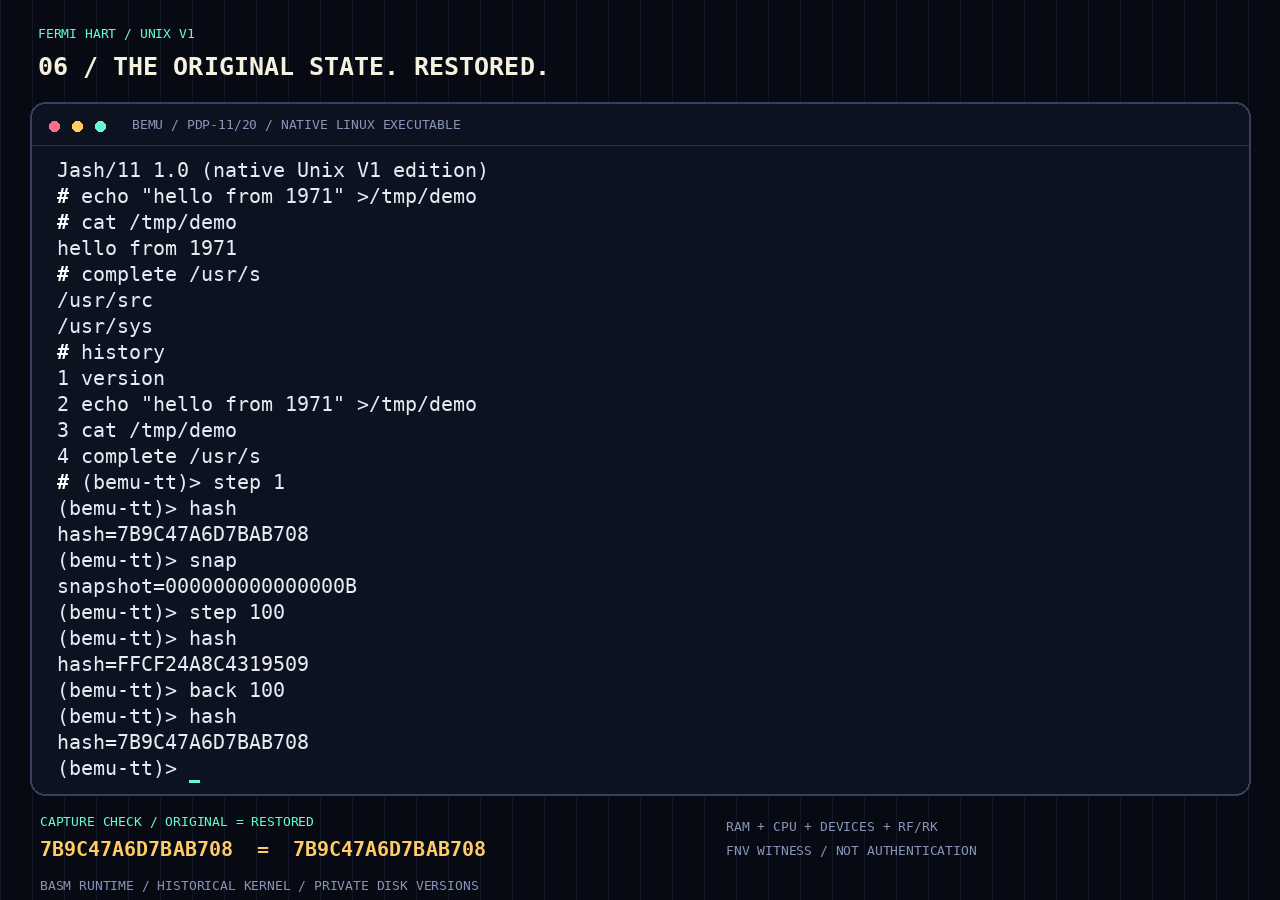
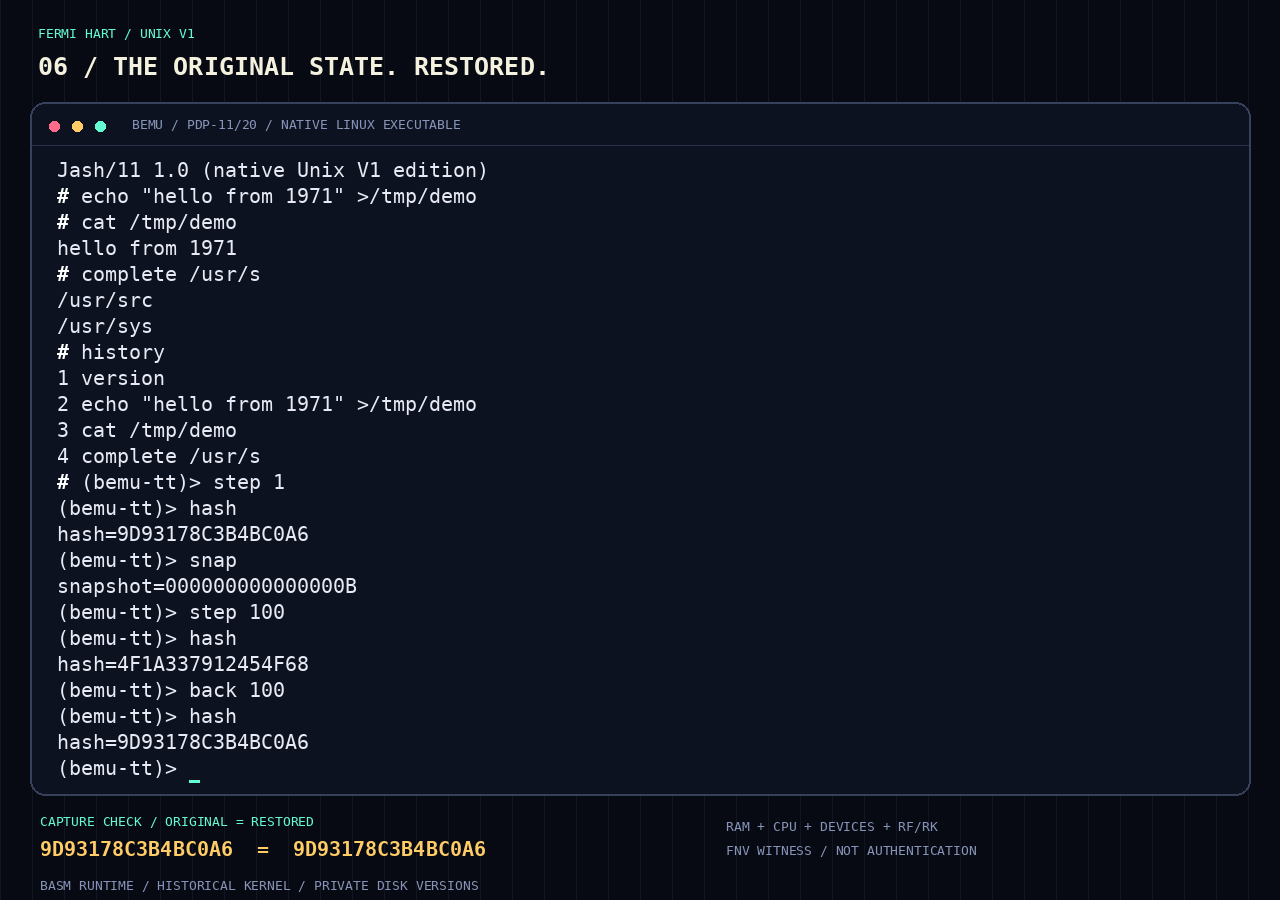
Link the official Basm download and use its public data container
Expose the official Linux x86-64 development download in the README, build guides and site navigation. Pack explicit PDP-11 words in BITS 64 so the public-only assembler can build the existing guest and fixtures without a compatibility-mode dependency.

Keep CPU3, CPU7 and the 6282-byte Jash executable byte-identical; the native Bemu ELF is also byte-identical when assembled with the reviewed public package. Refresh source-bound captures and separate the footer author/contact into independently spaced blocks.

Validation: the full 39-stage, three-round Unix/Jash/Bemu/SIMH/QEMU qualification passed using the sovereign public 0.1.0-dev.1 archive, with unchanged protected bases/inodes. Independent old/new fixture byte comparisons, real reverse/replay media checks, static-site tests, browser layout and staged-content checks passed.

diff --git a/website/index.html b/website/index.html
@@ -21,7 +21,7 @@
   <div class="aurora" aria-hidden="true"></div>
   <nav class="navigation" aria-label="Main navigation">
     <a class="wordmark" href="#top">UNIX V1<span aria-hidden="true">∞</span></a>
-    <div class="nav-links"><a href="#history">The roots</a><a href="#watch">In action</a><a href="#time">Time travel</a><a href="#shell">Jash/11</a><a class="nav-button" href="https://github.com/fermihart/unix-v1">Read the source ↗</a></div>
+    <div class="nav-links"><a href="#history">The roots</a><a href="#watch">In action</a><a href="#time">Time travel</a><a href="#shell">Jash/11</a><a class="nav-download" href="https://github.com/FermiHart/basm#get-the-development-candidate">Get Basm ↗</a><a class="nav-button" href="https://github.com/fermihart/unix-v1">Read the source ↗</a></div>
   </nav>
 
   <header id="top" class="hero wrap">
@@ -94,6 +94,7 @@
       <p class="eyebrow">START WITH A MACHINE YOU CAN REWIND</p>
       <h2>Switch it on.<br><span class="gradient">Follow the execution.</span></h2>
       <p class="lede">On Linux x86-64, with compatible Bear Basm, GNU <code>ld</code> and the restoration's build tools:</p>
+      <p class="assembler-download"><strong>Need the assembler?</strong> <a href="https://github.com/FermiHart/basm#get-the-development-candidate">Download Bear Basm for Linux x86-64 ↗</a><span>The official repository provides the development binary, checksum, source and run-in-place/install instructions. Check its supported subset and keep GNU <code>ld</code> available for linking.</span></p>
       <pre class="code"><code>git clone --recurse-submodules https://github.com/fermihart/unix-v1.git
 cd unix-v1
 make run-bemu-time
@@ -135,7 +136,7 @@ python3 -m http.server --bind 127.0.0.1 --directory _site 8000</code></pre><p>To
 
   <footer class="wrap">
     <a class="wordmark" href="#top">UNIX V1<span aria-hidden="true">∞</span></a>
-    <p>Local implementation and presentation: F E R M I ∞ H A R T · <a href="mailto:contact@fermihart.com">contact@fermihart.com</a></p>
+    <div class="footer-author"><span>Local implementation and presentation</span><strong>F E R M I ∞ H A R T</strong><a href="mailto:contact@fermihart.com">contact@fermihart.com</a></div>
     <p>The original <a href="LICENSE">unix-v1 license</a> is retained unchanged. Historical authorship and third-party terms remain intact. <a href="https://github.com/fermihart/unix-v1/blob/master/CONTRIBUTIONS.md">Contribution scope</a> · <a href="https://github.com/fermihart/unix-v1/blob/master/CREDITS">Restoration credits</a>.</p>
     <p>This product includes software developed or owned by Caldera International, Inc.</p>
   </footer>

diff --git a/website/css/site.css b/website/css/site.css
@@ -47,6 +47,7 @@ h3 { font-size: 24px; letter-spacing: -.025em; line-height: 1.25; }
 .nav-links a { color: var(--dim); font-size: 12px; text-decoration: none; }
 .nav-links a:hover { color: var(--teal); }
 .nav-links .nav-button { border: 1px solid var(--line); border-radius: 999px; color: var(--ink); padding: 10px 16px; }
+.nav-links .nav-download { color: var(--gold); font-weight: 700; }
 .hero { padding-top: 77px; padding-bottom: 45px; }
 .hero-grid { display: grid; grid-template-columns: 1fr 1.04fr; gap: 38px; align-items: center; }
 .hero-grid > * { min-width: 0; }
@@ -105,6 +106,13 @@ summary { color: var(--cyan); font-size: 14px; cursor: pointer; }
 .code { max-width: 100%; overflow: auto; background: var(--panel); border: 1px solid var(--line); border-radius: 15px; padding: 26px; line-height: 1.85; font-size: 13px; margin-top: 30px; }
 .code code { font-size: inherit; overflow-wrap: normal; }
 .start, .boundary { border-top: 1px solid var(--line); }
+.assembler-download { margin-top: 25px; padding: 20px 24px; border: 1px solid #65fbd24d; border-radius: 12px; background: #65fbd205; font-size: 15px; }
+.assembler-download strong { display: block; margin-bottom: 8px; color: var(--ink); }
+.assembler-download span { display: block; margin-top: 12px; color: var(--dim); font-size: 13px; }
+.footer-author { display: flex; flex-direction: column; align-items: flex-start; gap: 18px; margin-bottom: 34px; }
+.footer-author > span { color: var(--dim); font-size: 11px; }
+.footer-author > strong { color: var(--ink); font: 700 15px/1.6 var(--mono); letter-spacing: .12em; }
+.footer-author > a { font: 13px/1.7 var(--mono); margin-top: 4px; }
 .closing { font-size: clamp(27px, 4vw, 47px); line-height: 1.2; letter-spacing: -.035em; margin: 65px 0 10px; }
 .closing strong { color: var(--teal); }
 footer { border-top: 1px solid var(--line); padding-top: 45px; padding-bottom: 60px; color: var(--dim); font-size: 12px; }
@@ -125,6 +133,8 @@ footer p { margin-bottom: 10px; }
   .nav-links { gap: 0; }
   .nav-links a:not(.nav-button) { display: none; }
   .nav-links .nav-button { font-size: 10px; padding: 8px 11px; }
+  .nav-links a.nav-button { display: none; }
+  .nav-links a.nav-download { display: inline-flex; padding: 8px 11px; border: 1px solid #ffcc6659; border-radius: 999px; font-size: 11px; }
   .wordmark { font-size: 14px; letter-spacing: .1em; }
   .hero { padding-top: 46px; }
   .hero-grid { gap: 30px; }

diff --git a/bemu-pdp11/README.md b/bemu-pdp11/README.md
@@ -23,7 +23,8 @@ and RK filesystems.
 
 ## Requirements
 
-- Linux x86-64, Bear Basm or a compatible derivative, and GNU `ld`.
+- Linux x86-64, [Bear Basm](https://github.com/FermiHart/basm) or a compatible
+  derivative, and GNU `ld`.
 - Run `make` at the repository root to build the Unix V1 disk images.
 - Tests also require `timeout`, `expect`, and the repository's V1 assembler
   running under `tools/apout`.
@@ -31,6 +32,13 @@ and RK filesystems.
 SIMH is the reference implementation and powers the separate QEMU workflow;
 it is not a runtime dependency of Bemu-pdp11. The external assembler is not
 bundled with this project.
+
+Get the Linux x86-64 development binary and its checksum from the
+[official Basm downloads](https://github.com/FermiHart/basm#get-the-development-candidate).
+Follow the [package instructions](https://github.com/FermiHart/basm/blob/main/downloads/README.md)
+and select the extracted executable with `BASM=/absolute/path/to/bin/basm`.
+The public 64-bit assembler mode is also the container for our explicitly
+encoded PDP-11 data; it does not change the guest instruction width.
 
 ## Build, run, and test
 

diff --git a/README.md b/README.md
@@ -15,6 +15,7 @@
   <strong>A foundational operating system. Native Basm execution. A way back.</strong><br>
   <a href="#watch-it-run-then-watch-it-go-back">WATCH IT RUN</a> ·
   <a href="#start-with-a-machine-you-can-rewind">BOOT IT</a> ·
+  <a href="https://github.com/FermiHart/basm#get-the-development-candidate">GET BASM</a> ·
   <a href="https://fermihart.github.io/unix-v1/">OPEN THE WEBSITE</a> ·
   <a href="bemu-pdp11/docs/">READ THE MACHINE</a>
 </p>
@@ -338,6 +339,10 @@ Run `make test-bemu` for CPU/device regressions and the automated boot test
 (login, RF/RK filesystem access, and file writes on private disk copies).
 The build looks for Bear Basm as `basm` on `PATH`; override it with
 `BASM=/absolute/path/to/basm` when using a compatible derivative.
+Download Bear Basm from the [official repository](https://github.com/FermiHart/basm)
+or its [Linux x86-64 development packages](https://github.com/FermiHart/basm#get-the-development-candidate).
+Check the supplied checksum and follow the package's installation or
+run-in-place instructions; GNU `ld` is a separate linking dependency.
 
 ## Bemu time travel
 

diff --git a/jash11/README.md b/jash11/README.md
@@ -43,7 +43,8 @@ shell. `/bin/sh`, the kernel, `init`, `getty`, and the login configuration
 are not replaced. To close Bemu itself, use **Ctrl-E**, **Ctrl-A then X**,
 or **Ctrl-X then A** (release Ctrl before the final letter).
 
-Requirements: Linux x86-64, a compatible Bear Basm installation, GNU `ld`,
+Requirements: Linux x86-64, a compatible [Bear Basm](https://github.com/FermiHart/basm)
+installation, GNU `ld`,
 the repository's image-building tools, Python 3, `expect`, and `flock`.
 Select the assembler with `BASM=/absolute/path/to/basm` if necessary.
 
@@ -154,7 +155,7 @@ output targets `/dev/tty8` when available, with stdout as a fallback.
 
 ## Artifact and disk safety
 
-The `0407` executable loads at `040000` octal. `BITS 32` selects the
+The `0407` executable loads at `040000` octal. `BITS 64` selects the
 assembler container, not the guest CPU. The image verifier enforces an
 **8 KiB initialized-code/data budget** within the 16 KiB user window,
 reports the exact byte count and SHA-256, checks native file installation,

diff --git a/CHANGELOG.md b/CHANGELOG.md
@@ -37,6 +37,8 @@
   while retaining quoted and escaped backticks as literal data.
 - Host monitor line endings in raw terminals, without changing guest
   console bytes or redirected diagnostic line endings.
+- Use the public assembler's 64-bit data container for explicit PDP-11
+  words, preserving guest bytes while avoiding compatibility-only modes.
 
 ### Compatibility and safety
 
